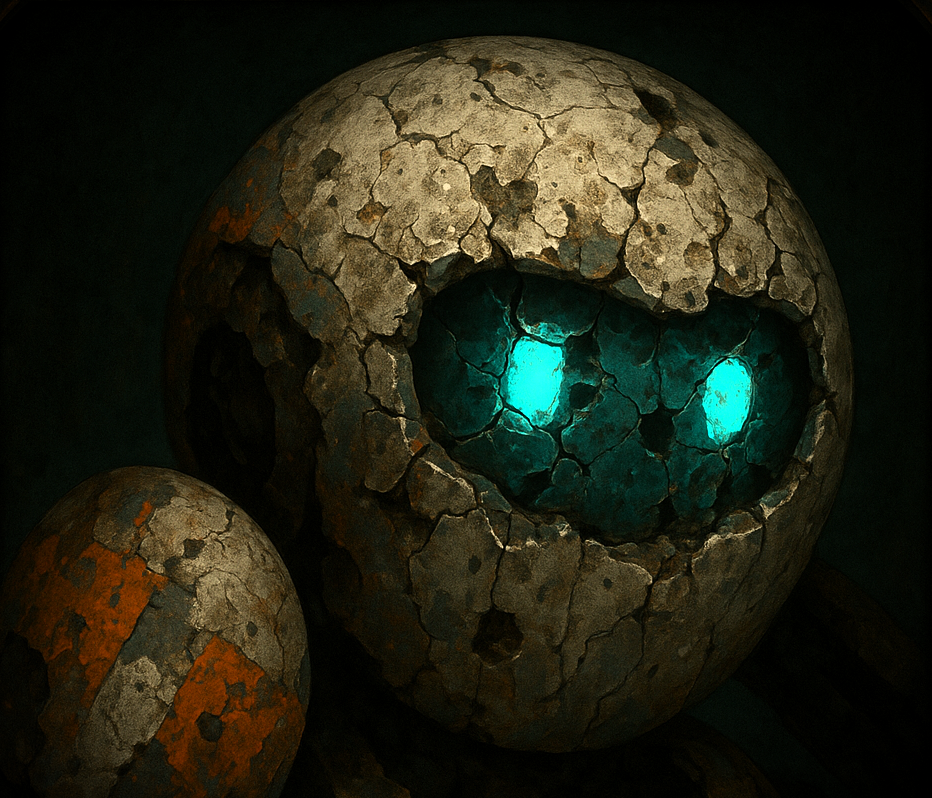
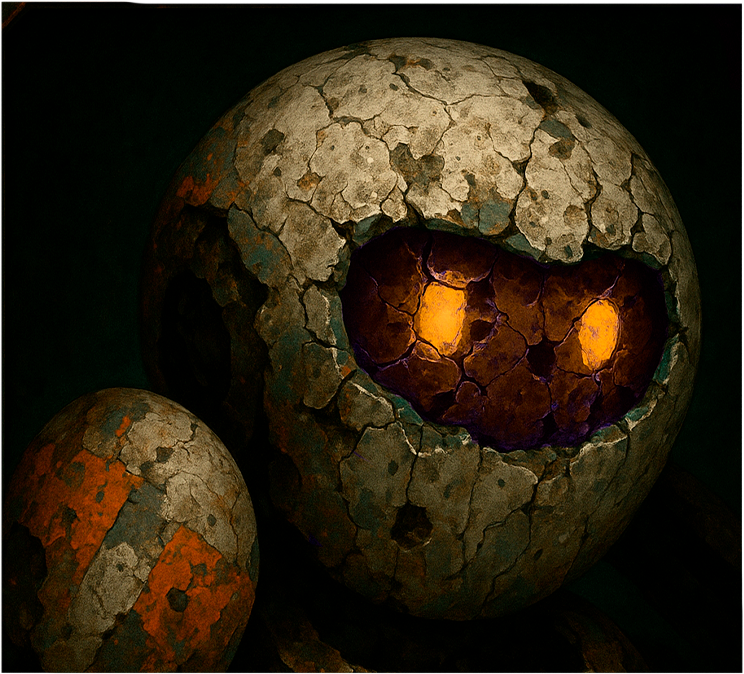
UpdateUIOk

diff --git a/Assets/InterfaceUI/PjStatesLifeBar.cs b/Assets/InterfaceUI/PjStatesLifeBar.cs
@@ -7,6 +7,7 @@ public enum LifeStatus
     NormalStatus,
     Injured,
     MoreInjured,
+    MoreMoreInjured,
     AlmostDead
 }
 public class PjStatesLifeBar
@@ -37,12 +38,14 @@ public class PjStatesLifeBar
 
         if (!_player.gameObject.activeSelf) return;
         LifeStatus currentStatus;
-        if (_player.GetLife > 70)
+        if (_player.GetLife > 90)
             currentStatus = LifeStatus.NormalStatus;
-        else if (_player.GetLife > 40)
+        else if (_player.GetLife > 80)
             currentStatus = LifeStatus.Injured;
-        else if (_player.GetLife > 15)
+        else if (_player.GetLife > 60)
             currentStatus = LifeStatus.MoreInjured;
+        else if (_player.GetLife > 20)
+            currentStatus = LifeStatus.MoreMoreInjured;
         else
             currentStatus = LifeStatus.AlmostDead;
         UpdateLifeBar();

diff --git a/Assets/Camera/CameraShakeManager.cs b/Assets/Camera/CameraShakeManager.cs
@@ -3,7 +3,6 @@ using System;
 using System.Collections;
 using System.Collections.Generic;
 using UnityEngine;
-using UnityEngine.Rendering;
 public enum Shakes
 {
     PlayerUnderAtack,
